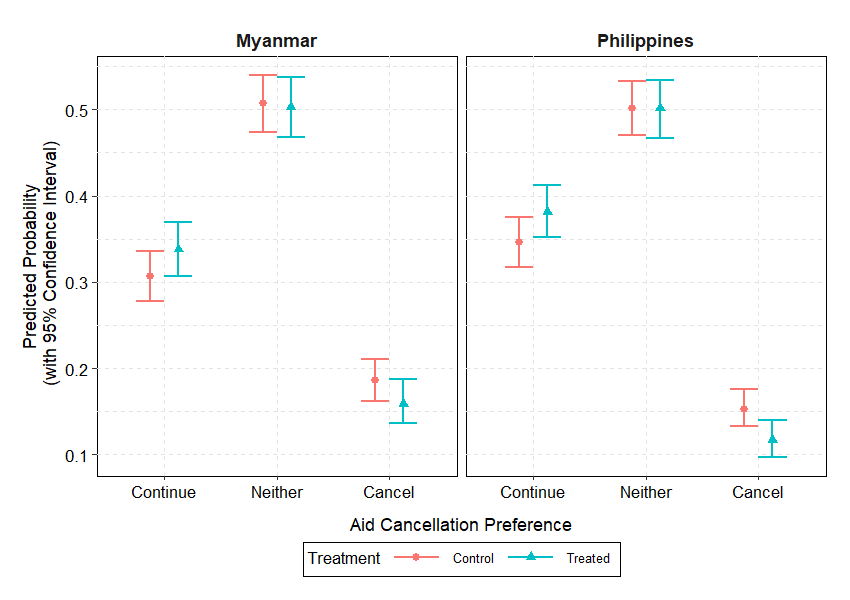
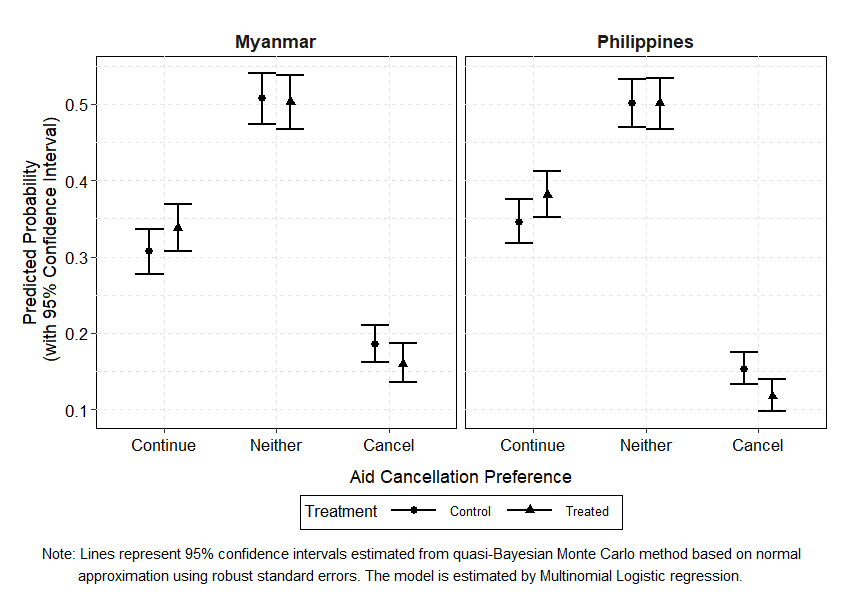
Bug Fix analys2_ate

diff --git a/src/analysis2_ate.md b/src/analysis2_ate.md
@@ -2500,8 +2500,17 @@ p <- plot_simu(simu.m1.mlogit, "outcat",
           label.shape = "Treatment",
           label.color = "Treatment",
           label.y = "Predicted Probability\n (with 95% Confidence Interval)",
-          label.x = "Aid Cancellation Preference") 
+          label.x = "Aid Cancellation Preference") + 
+  scale_color_manual(name="Treatment",values=c("black","black"))
+p <- plot_footnote(p, "Note: Lines represent 95% confidence intervals estimated from quasi-Bayesian Monte Carlo method based on normal \n         approximation using robust standard errors. The model is estimated by Multinomial Logistic regression.",
+                   bottom.expand.rate = 3, align="left", caption=FALSE, show.plot = FALSE)
 ```
+
+``` r
+grid.draw(p)
+```
+
+![](analysis2_ate_files/figure-markdown_github/unnamed-chunk-20-1.png)
 
 ``` r
 png_save(p,w=850,h=600,file="out/mlogitplot.png")
@@ -4805,7 +4814,7 @@ p <- plot_footnote(p, "Note: Lines represent 95% confidence intervals calculated
 grid.draw(p)
 ```
 
-![](analysis2_ate_files/figure-markdown_github/unnamed-chunk-34-1.png)
+![](analysis2_ate_files/figure-markdown_github/unnamed-chunk-35-1.png)
 
 ``` r
 png_save(p, w=850, h=500, file=c("out/dvmedplot_ols.png"))
@@ -7109,7 +7118,7 @@ p <- plot_footnote(p, "Note: Lines represent 95% confidence intervals calculated
 grid.draw(p)
 ```
 
-![](analysis2_ate_files/figure-markdown_github/unnamed-chunk-49-1.png)
+![](analysis2_ate_files/figure-markdown_github/unnamed-chunk-50-1.png)
 
 ``` r
 png_save(p, w=850, h=500, file=c("out/dvmedplot_logit.png"))
